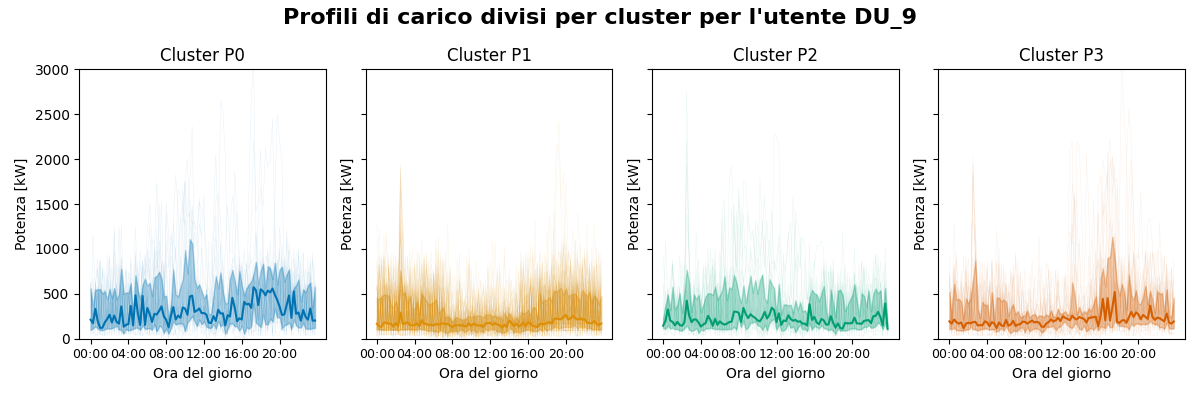
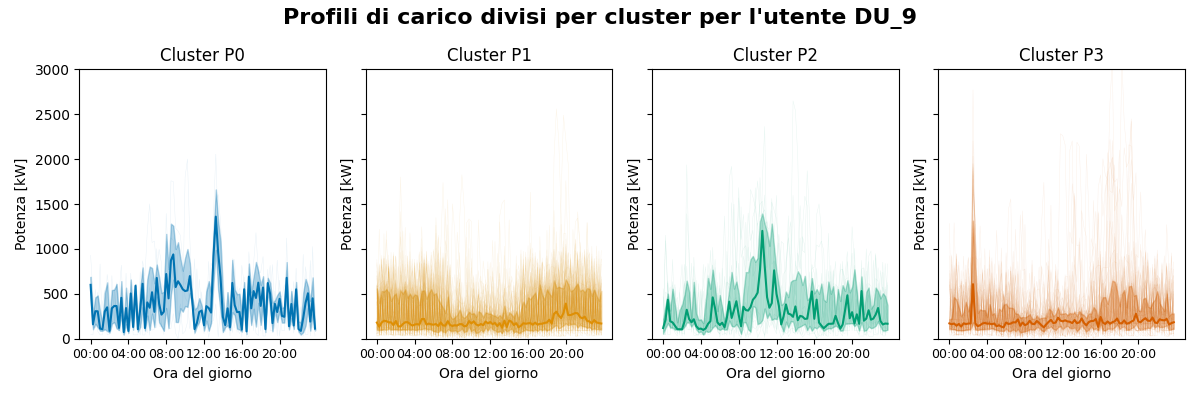
feat(benchmarking): using medioids instead of centroids

diff --git a/src/benchmarking/assign.py b/src/benchmarking/assign.py
@@ -1,0 +1,139 @@
+import pandas as pd
+from src.building import load_anguillara, load_garda
+from scipy.spatial.distance import euclidean
+
+
+def calculate_medioids(aggregate: str):
+    """
+
+    Calcola i medioidi per i consumatori e i prosumer di un aggregato dopo aver applicato il clustering. I medioidi
+    vengono salvati in due file csv.
+    :param aggregate: nome dell'aggregato
+    """
+
+    cluster = pd.read_csv(f"../../results/cluster_{aggregate}.csv")
+    cluster["cluster"] = cluster.apply(lambda row: 'C' + str(row['cluster']) if row['user_type'] == 'consumer' else 'P' + str(row['cluster']), axis=1)
+    cluster["date"] = pd.to_datetime(cluster["date"]).dt.date
+
+    building_list = []
+
+    if aggregate == "anguillara":
+        building_list = load_anguillara()
+    elif aggregate == "garda":
+        building_list = load_garda()
+
+    building_data_list = []
+    for building in building_list:
+        data = building.energy_meter.data
+        data["timestamp"] = pd.to_datetime(data["timestamp"])
+        data["hour"] = data["timestamp"].dt.strftime("%H:%M")
+        data["date"] = data["timestamp"].dt.date
+        data["building_name"] = building.building_info["name"]
+        data["Load_norm"] = data["Load"] / data.groupby("date")["Load"].transform("max")
+
+        cluster_user = cluster[cluster["building_name"] == building.building_info["name"]]
+        data = pd.merge(data.drop(columns=["building_name"]), cluster_user, on="date", how="inner")
+        building_data_list.append(data)
+
+    df = pd.concat(building_data_list)
+
+    df_consumer = df[df["user_type"] == "consumer"]
+    df_prosumer = df[df["user_type"] != "consumer"]
+
+    centroids_consumer = df_consumer.groupby(["cluster", "hour"])["Load_norm"].mean().reset_index()
+    centroids_consumer_pivot = centroids_consumer.pivot(index="cluster", columns="hour", values="Load_norm")
+
+    df_consumer_pivot = df_consumer.pivot(index=["building_name", "date"], columns="hour", values="Load_norm")
+    df_consumer_pivot.reset_index(inplace=True, level=[0, 1])
+    df_consumer_pivot = pd.merge(df_consumer_pivot, cluster[["building_name", "date", "cluster"]], on=["building_name", "date"], how="inner")
+    df_consumer_pivot = df_consumer_pivot.drop(columns=["building_name", "date"])
+    # For each cluster, find the nearest load profile in df_consumer_pivot
+    nearest_profiles = {}
+    for cluster_label in centroids_consumer_pivot.index:
+        # Get the centroid for the current cluster
+        centroid = centroids_consumer_pivot.loc[cluster_label].values
+        # Filter df_consumer_pivot by the current cluster
+        cluster_profiles = df_consumer_pivot[df_consumer_pivot["cluster"] == cluster_label]
+        # Drop the cluster column for distance calculation
+        cluster_profiles_data = cluster_profiles.drop(columns=["cluster"])
+        # Calculate distances for each profile in the current cluster
+        distances = cluster_profiles_data.apply(lambda row: euclidean(row.values, centroid), axis=1)
+        # Find the index of the nearest profile
+        nearest_index = distances.idxmin()
+        # Store the nearest profile and its distance
+        nearest_profiles[cluster_label] = df_consumer_pivot.loc[nearest_index]
+
+    medioid_consumer = pd.DataFrame(nearest_profiles).T.drop(columns=["cluster"]).astype(float)
+    medioid_consumer.to_csv(f"../../results/medioid_{aggregate}_consumer.csv", index=True)
+
+    centroids_prosumer = df_prosumer.groupby(["cluster", "hour"])["Load_norm"].mean().reset_index()
+    centroids_prosumer_pivot = centroids_prosumer.pivot(index="cluster", columns="hour", values="Load_norm")
+
+    df_prosumer_pivot = df_prosumer.pivot(index=["building_name", "date"], columns="hour", values="Load_norm")
+    df_prosumer_pivot.reset_index(inplace=True, level=[0, 1])
+    df_prosumer_pivot = pd.merge(df_prosumer_pivot, cluster[["building_name", "date", "cluster"]], on=["building_name", "date"], how="inner")
+    df_prosumer_pivot = df_prosumer_pivot.drop(columns=["building_name", "date"])
+
+    # For each cluster, find the nearest load profile in df_prosumer_pivot
+    nearest_profiles = {}
+    for cluster_label in centroids_prosumer_pivot.index:
+        # Get the centroid for the current cluster
+        centroid = centroids_prosumer_pivot.loc[cluster_label].values
+        # Filter df_prosumer_pivot by the current cluster
+        cluster_profiles = df_prosumer_pivot[df_prosumer_pivot["cluster"] == cluster_label]
+        # Drop the cluster column for distance calculation
+        cluster_profiles_data = cluster_profiles.drop(columns=["cluster"])
+        # Calculate distances for each profile in the current cluster
+        distances = cluster_profiles_data.apply(lambda row: euclidean(row.values, centroid), axis=1)
+        # Find the index of the nearest profile
+        nearest_index = distances.idxmin()
+        # Store the nearest profile and its distance
+        nearest_profiles[cluster_label] = df_prosumer_pivot.loc[nearest_index]
+
+    medioid_prosumer = pd.DataFrame(nearest_profiles).T.drop(columns=["cluster"]).astype(float)
+    medioid_prosumer.to_csv(f"../../results/medioid_{aggregate}_prosumer.csv", index=True)
+
+
+def assign_cluster(aggregate: str):
+    """
+    Riassegna ogni profile di carico al medioide più vicino
+    :param aggregate: nome dell'aggregato (anguillara o garda)
+    """
+
+    medioids_consumer = pd.read_csv(f"../../results/medioid_{aggregate}_consumer.csv", index_col=0)
+    medioids_prosumer = pd.read_csv(f"../../results/medioid_{aggregate}_prosumer.csv", index_col=0)
+
+    building_list = []
+    if aggregate == "anguillara":
+        building_list = load_anguillara()
+    elif aggregate == "garda":
+        building_list = load_garda()
+
+    building_data_list = []
+    for building in building_list:
+        data = building.energy_meter.data
+        data["timestamp"] = pd.to_datetime(data["timestamp"])
+        data["hour"] = data["timestamp"].dt.strftime("%H:%M")
+        data["date"] = data["timestamp"].dt.date
+        data["building_name"] = building.building_info["name"]
+        data["Load_norm"] = data["Load"] / data.groupby("date")["Load"].transform("max")
+        data_pivot = data.pivot(index="date", columns="hour", values="Load_norm")
+
+        if building.building_info["user_type"] == "consumer":
+            medioids = medioids_consumer
+        else:
+            medioids = medioids_prosumer
+
+        # Assign the cluster with the minimum distance
+        clusters = data_pivot.apply(lambda row: medioids.apply(lambda x: euclidean(row, x), axis=1).idxmin(), axis=1)
+        clusters = clusters.reset_index()
+        clusters.columns = ["date", "cluster"]
+        clusters["building_name"] = building.building_info["name"]
+        clusters["user_type"] = building.building_info["user_type"]
+        clusters["user_id"] = building.building_info["id"]
+
+        building_data_list.append(clusters)
+
+    df = pd.concat(building_data_list)
+
+    df.to_csv(f"../../results/cluster_{aggregate}_assigned.csv", index=False)

diff --git a/src/benchmarking/viz.py b/src/benchmarking/viz.py
@@ -39,8 +39,7 @@ def plot_load_profiles_user(user_id: str, aggregate: str):
     building = Building(user_id, aggregate)
     data = building.energy_meter.data
 
-    cluster = pd.read_csv(os.path.join(PROJECT_ROOT, "results", f"cluster_{aggregate}.csv"))
-    cluster['cluster'] = cluster.apply(lambda row: 'C' + str(row['cluster']) if row['user_type'] == 'consumer' else 'P' + str(row['cluster']), axis=1)
+    cluster = pd.read_csv(os.path.join(PROJECT_ROOT, "results", f"cluster_{aggregate}_assigned.csv"))
     cluster_user = cluster[cluster["user_id"] == user_id]
     cluster_user["date"] = pd.to_datetime(cluster_user["date"]).dt.date
 
@@ -101,8 +100,7 @@ def plot_load_profiles_aggregate(aggregate: str):
     :param aggregate: nome dell'aggregato ("anguillara" o "garda")
     """
 
-    cluster = pd.read_csv(os.path.join(PROJECT_ROOT, "results", f"cluster_{aggregate}.csv"))
-    cluster['cluster'] = cluster.apply(lambda row: 'C' + str(row['cluster']) if row['user_type'] == 'consumer' else 'P' + str(row['cluster']), axis=1)
+    cluster = pd.read_csv(os.path.join(PROJECT_ROOT, "results", f"cluster_{aggregate}_assigned.csv"))
     cluster["date"] = pd.to_datetime(cluster["date"]).dt.date
 
     cluster_consumer = cluster[cluster["user_type"] == "consumer"]
@@ -215,8 +213,7 @@ def plot_cluster_percentage(aggregate: str):
     :param aggregate: nome dell'aggregato ("anguillara" o "garda")
     """
 
-    cluster = pd.read_csv(os.path.join(PROJECT_ROOT, "results", f"cluster_{aggregate}.csv"))
-    cluster['cluster'] = cluster.apply(lambda row: 'C' + str(row['cluster']) if row['user_type'] == 'consumer' else 'P' + str(row['cluster']), axis=1)
+    cluster = pd.read_csv(os.path.join(PROJECT_ROOT, "results", f"cluster_{aggregate}_assigned.csv"))
 
     consumer_cluster = cluster[cluster["user_type"] == "consumer"]
     consumer_cluster_grouped = consumer_cluster.groupby(["building_name", "cluster"]).size().reset_index(name="count")
@@ -277,3 +274,7 @@ def plot_cluster_percentage(aggregate: str):
                 fancybox=True, shadow=True)
     plt.tight_layout(rect=(0, 0.05, 1, 1))
     plt.savefig(os.path.join(PROJECT_ROOT, "figures", "clustering", f"cluster_percentage_{aggregate}_prosumer.png"))
+
+
+def plot_centroids(aggregate: str):
+    pass

diff --git a/src/benchmarking/main.py b/src/benchmarking/main.py
@@ -1,5 +1,6 @@
 import json
 from src.benchmarking.clustering import run_clustering
+from src.benchmarking.assign import calculate_medioids, assign_cluster
 from src.benchmarking.viz import (plot_load_profiles_user, plot_load_profiles_aggregate,
                                   plot_cluster_percentage)
 
@@ -14,6 +15,8 @@ def run_benchmarking(aggregate: str):
         building_list = json.load(f)
 
     run_clustering(aggregate)
+    calculate_medioids(aggregate)
+    assign_cluster(aggregate)
     plot_load_profiles_aggregate(aggregate)
     plot_cluster_percentage(aggregate)
 
